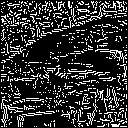
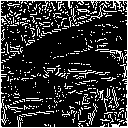
answer_43を修正

diff --git a/Answer_41_50/answer_43.go b/Answer_41_50/answer_43.go
@@ -264,30 +264,49 @@ func main() {
 	}
 
 	HT := 100.0
-	LT := 30.0
+	LT := 45.0
 	threshEdgeImage := image.NewGray(jpegImage.Bounds())
-	for y := 1; y < len(nonMaximumSuppressionEdgeArray)-1; y++ {
-		for x := 1; x < len(nonMaximumSuppressionEdgeArray[0][:])-1; x++ {
+	H = len(nonMaximumSuppressionEdgeArray)
+	W = len(nonMaximumSuppressionEdgeArray[0][:])
+	for y := 0; y < H; y++ {
+		for x := 0; x < W; x++ {
+			// 画像の境界は255をセットする
+			if x == 0 || y == 0 || x >= W-1 || y >= H-1 {
+				threshEdgeImage.Set(x, y, color.Gray{255})
+				continue
+			}
+
 			edgeValue := nonMaximumSuppressionEdgeArray[y][x]
+
 			if edgeValue > HT {
 				threshEdgeImage.Set(x, y, color.Gray{255})
 			} else if edgeValue < LT {
 				threshEdgeImage.Set(x, y, color.Gray{0})
-			} else if edgeValue > LT && edgeValue < HT {
+			} else if edgeValue >= LT && edgeValue <= HT {
 				flag := false
 				for j := y - 1; j <= y+1; j++ {
 					for k := x - 1; k <= x+1; k++ {
-						// fmt.Printf("[%d][%d]", k, j)
-						if nonMaximumSuppressionEdgeArray[j][k] > edgeValue {
+						// if j == y-1 && k == x-1 {
+						// 	fmt.Println("center pix val", edgeValue)
+						// }
+						// fmt.Printf("[%d][%d] %f ", k, j, nonMaximumSuppressionEdgeArray[j][k])
+						neiborPix := nonMaximumSuppressionEdgeArray[j][k]
+						if neiborPix > edgeValue {
 							flag = true
+							// fmt.Printf("true")
+							break
 						}
 					}
+					// fmt.Println()
+					if flag == true {
+						break
+					}
 				}
+				// fmt.Println()
+
 				if flag == true {
 					threshEdgeImage.Set(x, y, color.Gray{255})
 				}
-			} else {
-				threshEdgeImage.Set(x, y, color.Gray{uint8(edgeValue)})
 			}
 		}
 	}
